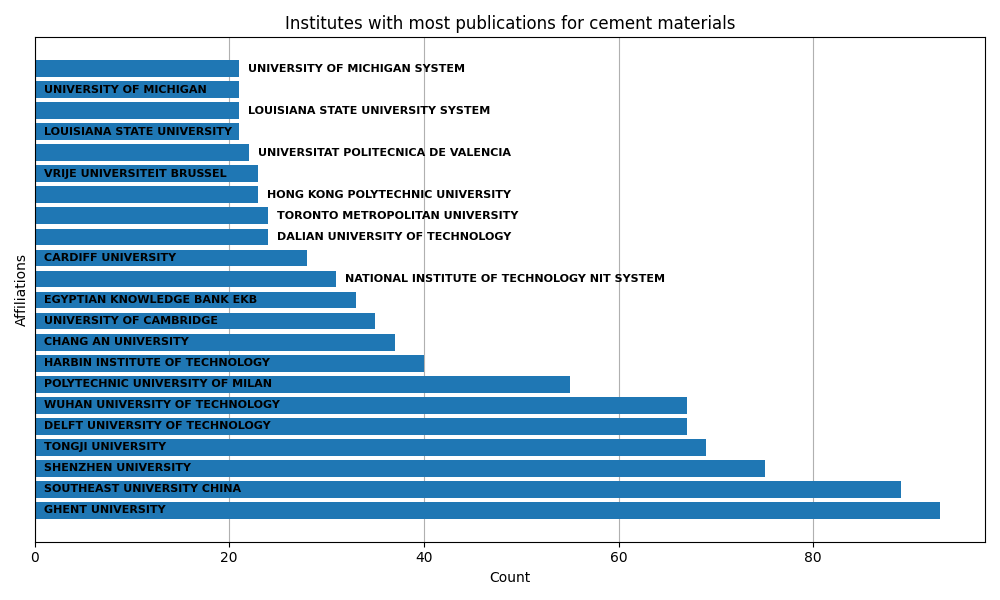
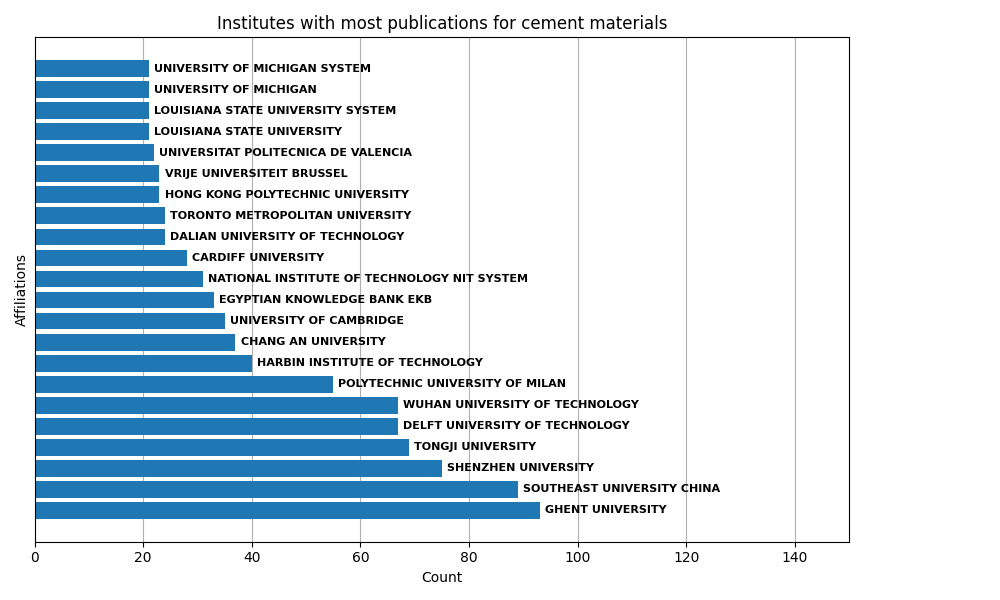
graph adjustments

diff --git a/graph_new.py b/graph_new.py
@@ -5,9 +5,12 @@ import os
 from matplotlib.ticker import MultipleLocator
 from matplotlib.lines import Line2D
 import numpy as np
+from matplotlib.ticker import MaxNLocator
 # Load the data files
 dirname = os.path.dirname(__file__)
 
+def round_up_to_next_50(n):
+        return math.ceil(n / 50) * 50
 
 populations_file = os.path.join(dirname, r'data/populations.xlsx')  # data from https://www.census.gov/data-tools/demo/idb/#/table?dashboard_page=country&COUNTRY_YR_ANIM=2025&menu=tableViz, January 2025
 data_populations = pd.read_excel(populations_file, header=1)
@@ -107,19 +110,20 @@ for materialstring in materialstrings:
     ax.set_axisbelow(True)
     # Remove the default y-axis labels
     ax.set_yticks([])
+   
 
     # Annotate each bar with its corresponding category label
     for bar, label, count in zip(bars, data_affiliations_filtered['Affiliations'], data_affiliations_filtered['Count']):
         y = bar.get_y() + bar.get_height() / 2  # Center the text vertically
         available_space_percent = count/max(data_affiliations_filtered['Count']) 
-        if len(label)< 120*available_space_percent :
-            x = bar.get_x() + 0.01*max(data_affiliations_filtered['Count'])
-        else:
-            x = bar.get_x() + 0.01*max(data_affiliations_filtered['Count']) + count
+        x = bar.get_x() + 0.01*max(data_affiliations_filtered['Count']) + count
         ax.text(x, y, label, va='center', ha='left', color='Black', fontsize=8, weight='bold', backgroundcolor='none')
     plt.tight_layout()
+ 
+    plt.xlim(0, round_up_to_next_50(max(data_affiliations_filtered['Count'])*1.4))
     plt.savefig(affiliations_plot_path)
     plt.close()
+    
 
     #-------------------------------
     # Plot affiliations bar chart low numbers
@@ -159,10 +163,11 @@ for materialstring in materialstrings:
 
     # plt.minorticks_on()
     ax = plt.gca()
-    ax.grid(which='major', axis='x', linestyle='-')
+    ax.grid(which='major', axis='both', linestyle='-')
     # ax.set_yticklabels([])
     ax.set_axisbelow(True)
-    
+    ax.yaxis.set_major_locator(MaxNLocator(integer=True))
+    ax.xaxis.set_major_locator(MaxNLocator(integer=True))
     ax.tick_params(axis='y', which='major', color='black', width=1.5, length=0)
     ax.tick_params(axis='y', which='minor', color='black', width=1.5, length=0)
     # plt.axvline(x=len(data_affiliations_filtered), color='r', linestyle='-')
@@ -274,12 +279,12 @@ years_cululative_plot_path = os.path.join(dirname, r'graphs/years_cumulative')
 
 # plt.figure(figsize=(10, 6))
 ax = df_years_all.plot(x="Publication Years", y=materialstrings,
-        kind="line", figsize=(10, 6))
+        kind="line", figsize=(10, 6), color=colors)
 
 
 # for materialstring in materialstrings:
 #     plt.plot(df_years_all['Publication Years'], df_years_all[materialstring])
-x_tick_list = [min(df_years_all['Publication Years'])] + [x for x in range(min(df_years_all['Publication Years']), max(df_years_all['Publication Years'] + 2)) if x%5==0] + [max(df_years_all['Publication Years'] + 2)]
+x_tick_list = [min(df_years_all['Publication Years'])] + [x for x in range(min(df_years_all['Publication Years']), max(df_years_all['Publication Years'])) if x%5==0] + [max(df_years_all['Publication Years'])]
 x_tick_list = sorted(list(set(x_tick_list)))
 plt.title('Number of Publications per Year')
 plt.xlabel('Year')
@@ -332,4 +337,36 @@ custom_line = Line2D([0], [0], color="grey", linestyle="--", label="forecast")
 plt.legend(handles=plt.gca().get_legend_handles_labels()[0] + [custom_line])
 
 plt.savefig(years_cululative_plot_path)
+plt.close()
+
+#-------------------------------
+# Plot affiliations histogram chart stacked
+#-------------------------------
+
+
+hist_data = []
+for materialstring in materialstrings:
+    affiliations_file = os.path.join(dirname, r'data/affiliations_' + materialstring +'_wos.xlsx')  
+    data_affiliations = pd.read_excel(affiliations_file)
+    # counts_of_counts = data_affiliations["Count"].value_counts()
+    hist_data.append(data_affiliations["Count"])
+#-------------------------------
+plt.figure(figsize=(10, 6))
+bins = range(min([hist_data[i].min() for i in range(len(hist_data))]), max([hist_data[i].max() for i in range(len(hist_data))]) + 1, 1)
+
+p = plt.hist(hist_data, bins=bins, edgecolor='none', color=colors, alpha=0.7, stacked=True, label=materialstrings)
+plt.title(f'Stacked histogram for number of publications per Institute for all material types')
+plt.legend(title="Materials")
+plt.ylabel('Number of Institues with Count')
+plt.xlabel('Publication Count')
+ax = plt.gca()
+ax.grid(which='major', axis='both', linestyle='-')
+ax.set_axisbelow(True)
+ax.yaxis.set_major_locator(MaxNLocator(integer=True))
+ax.xaxis.set_major_locator(MaxNLocator(integer=True))
+ax.tick_params(axis='y', which='major', color='black', width=1.5, length=0)
+ax.tick_params(axis='y', which='minor', color='black', width=1.5, length=0)
+plt.tight_layout()
+affiliations_histogram_stacked_plot_path = os.path.join(dirname, r'graphs/affiliation_histogram_stacked')
+plt.savefig(affiliations_histogram_stacked_plot_path)
 plt.close()

diff --git a/graph_patent.py b/graph_patent.py
@@ -90,7 +90,7 @@ plt.barh(countries_data['Countries (family)'], countries_data['Number of documen
 plt.ylabel('Country')
 plt.xlabel('Count')
 plt.title('Patent Families by Country')
-plt.xticks(rotation=45, ha='right')  # Rotate x-axis labels
+# plt.xticks(rotation=45, ha='right')  # Rotate x-axis labels
 plt.tight_layout()
 plt.grid(axis='x', linestyle='-', alpha=0.7)
 ax = plt.gca()
